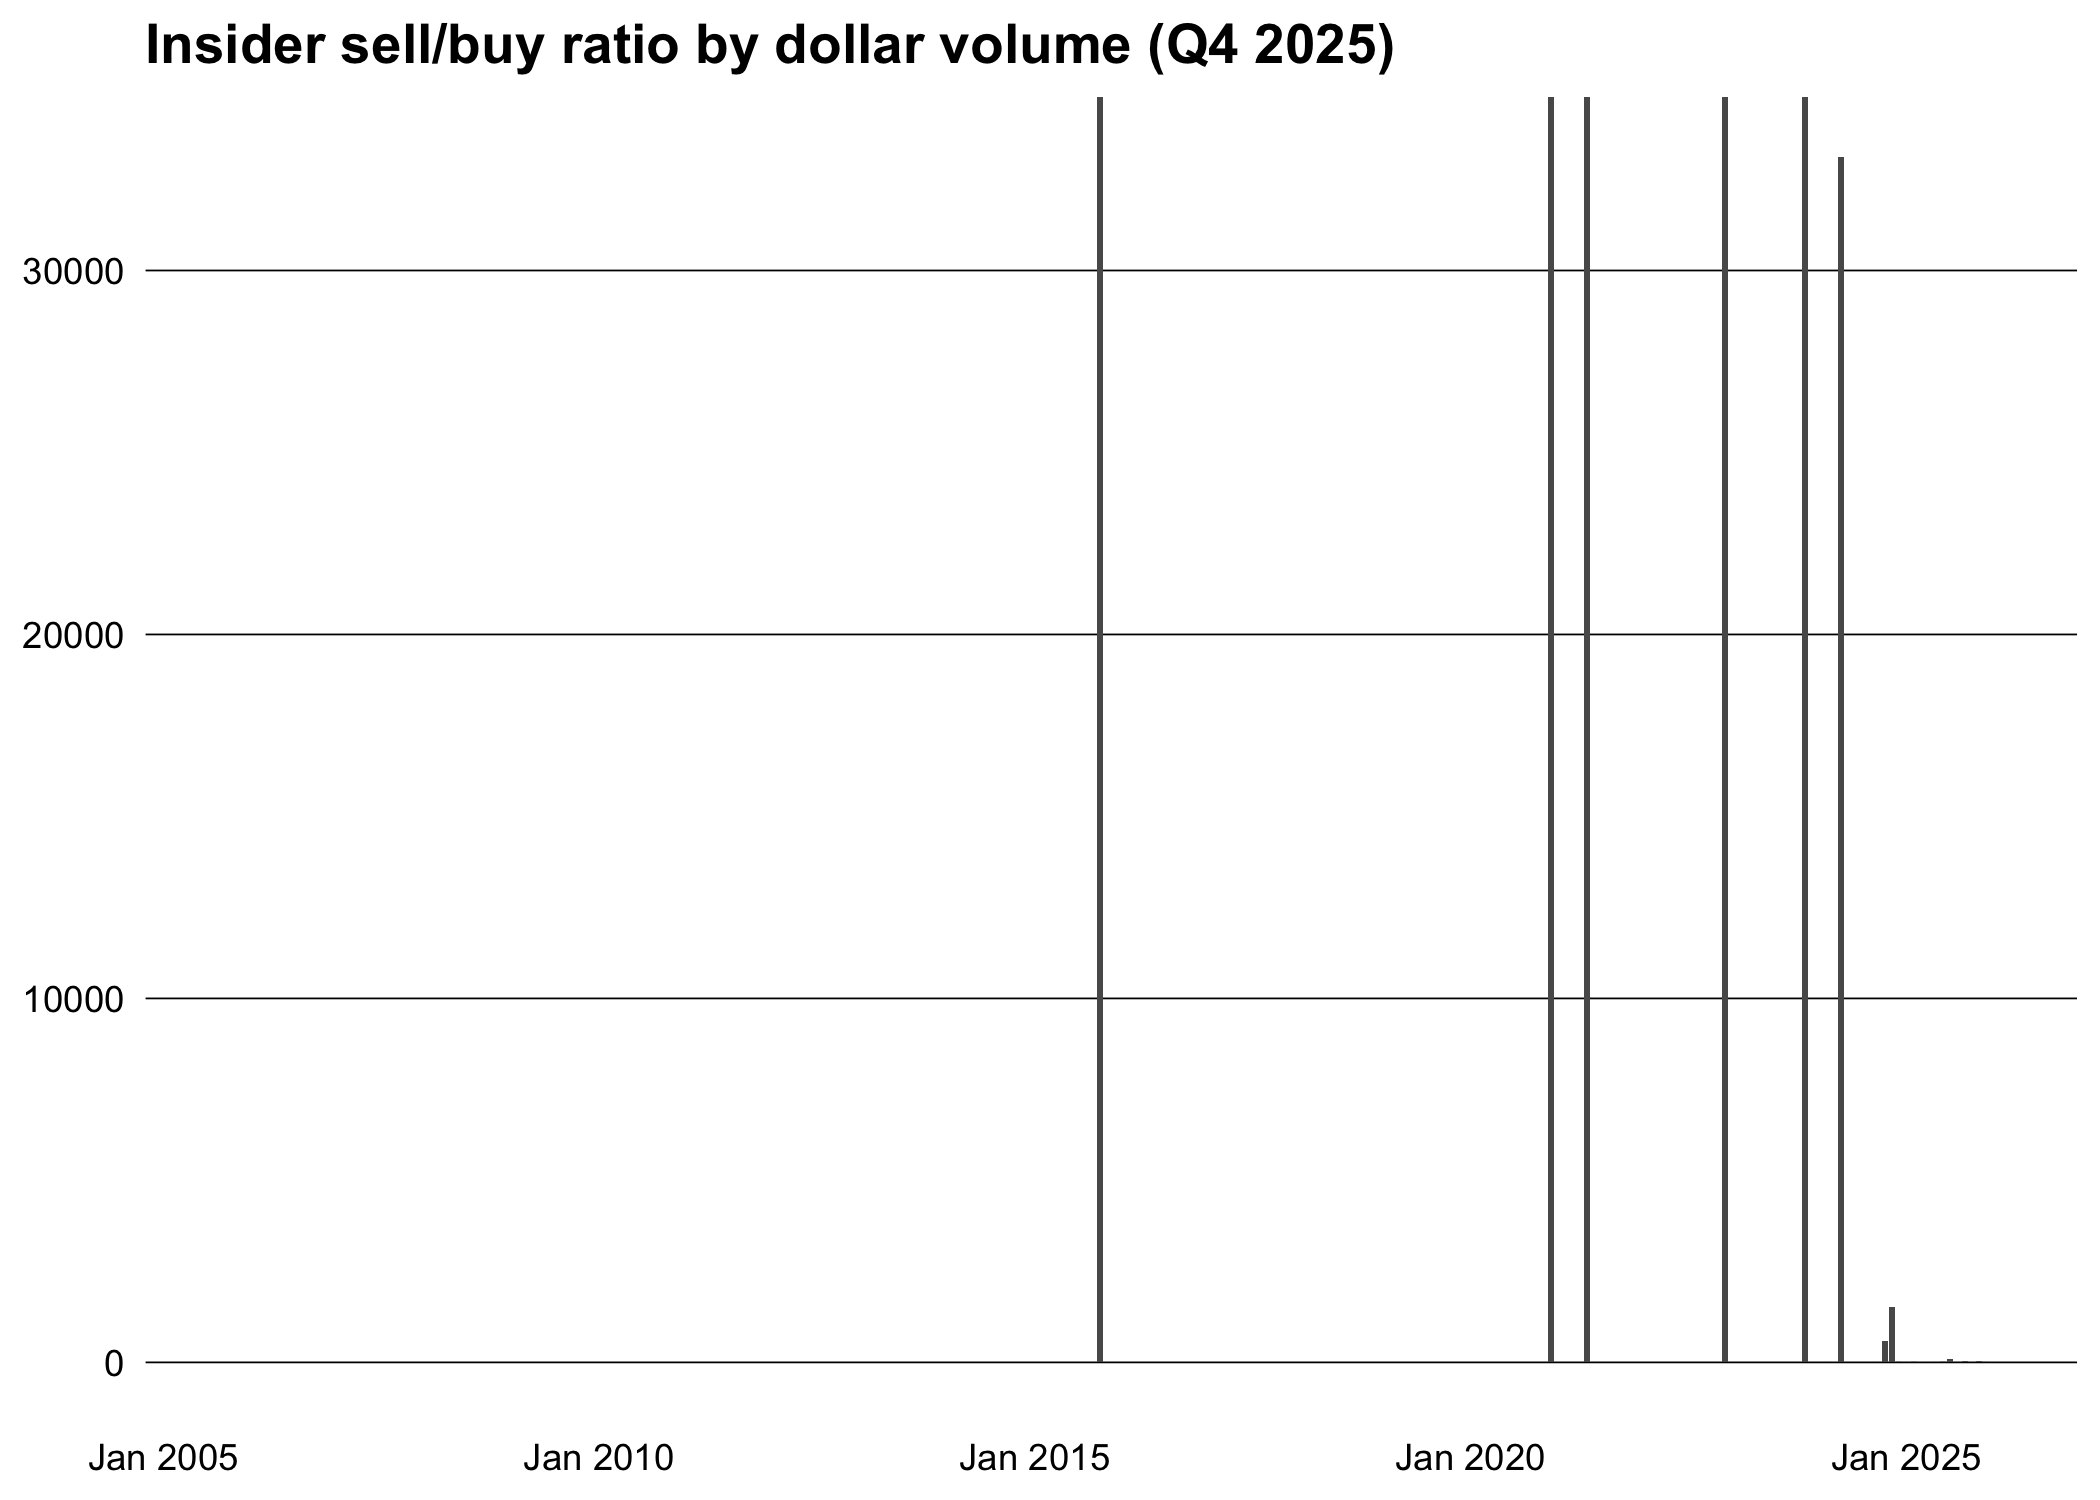
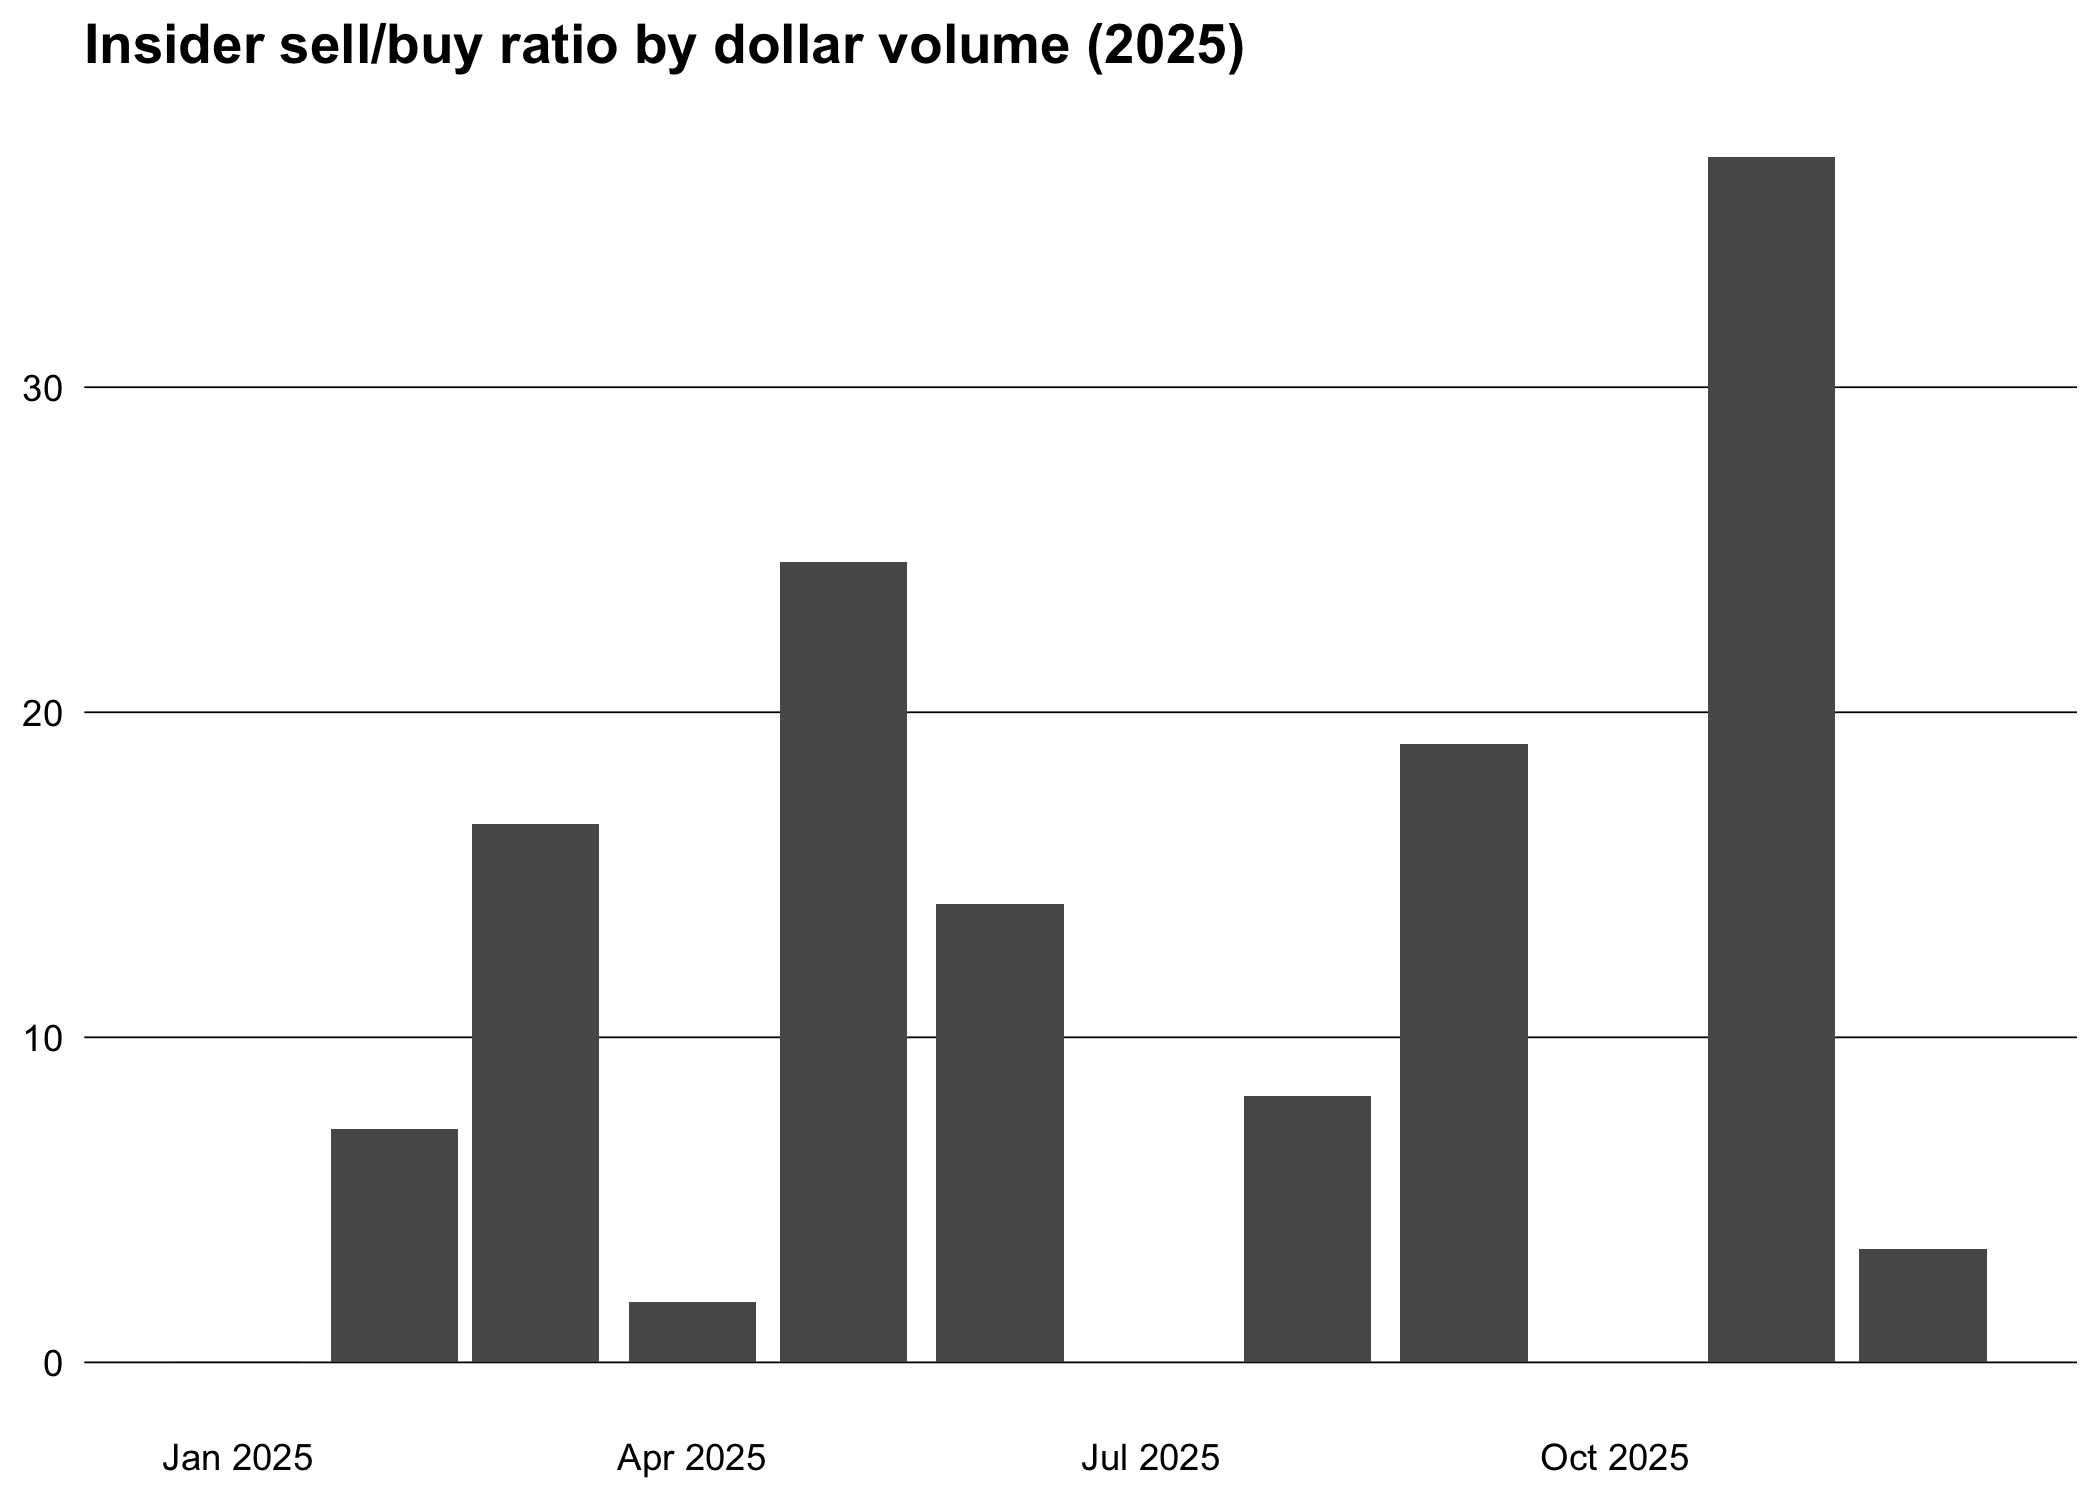
docs: make the readme actually readable

diff --git a/README.md b/README.md
@@ -55,10 +55,10 @@ library(insidertrade)
 
 ### Bulk data
 
-Download and parse all Form 3/4/5 tables for Q4 2025:
+Download and parse all Form 3/4/5 tables for 2025:
 
 ``` r
-trans <- sec_transactions(2025, 4)
+trans <- sec_transactions(2025)
 ```
 
 ### Open-market purchases
@@ -68,7 +68,9 @@ the most informative signal for insider sentiment:
 
 ``` r
 buys <- trans[
-  trans_code == "P" & grepl("Officer|Director", rptowner_relationship)
+  trans_code == "P" &
+    grepl("Officer|Director", rptowner_relationship) &
+    trans_date >= "2025-01-01" & trans_date <= "2025-12-31"
 ]
 buys[, let(value = trans_shares * trans_pricepershare)]
 ```
@@ -84,23 +86,23 @@ top <- buys[,
 ]
 setorder(top, -n_insiders, -total_usd)
 head(top, 10)
-#>     ticker                           company n_insiders   total_usd
-#>     <char>                            <char>      <int>       <num>
-#>  1:    CBC          Central Bancompany, Inc.         17   5104827.0
-#>  2:   MTDR              Matador Resources Co         13   1522756.2
-#>  3:    VAC MARRIOTT VACATIONS WORLDWIDE Corp         12  18231582.0
-#>  4:   HYNE               Hoyne Bancorp, Inc.         10   2428915.6
-#>  5:    OBK              Origin Bancorp, Inc.         10   1023668.6
-#>  6:    SPG     SIMON PROPERTY GROUP INC /DE/         10    394399.9
-#>  7:    CRM                  Salesforce, Inc.          9 200626167.0
-#>  8: PHXE.P           Phoenix Energy One, LLC          9    410000.0
-#>  9:    LAB            STANDARD BIOTOOLS INC.          8 115266000.0
-#> 10:   ZBIO             Zenas BioPharma, Inc.          8  34252652.3
+#>     ticker                           company n_insiders  total_usd
+#>     <char>                            <char>      <int>      <num>
+#>  1:   ACTU        ACTUATE THERAPEUTICS, INC.         24   11999904
+#>  2:   EFSI      EAGLE FINANCIAL SERVICES INC         21     596869
+#>  3:   ALKT           ALKAMI TECHNOLOGY, INC.         19  534703590
+#>  4:    CBC          Central Bancompany, Inc.         17    5104827
+#>  5:   MTDR              Matador Resources Co         17    4647941
+#>  6:   KYMR         Kymera Therapeutics, Inc.         16 1347604988
+#>  7:   AVBH           Avidbank Holdings, Inc.         16    3488755
+#>  8:   WSBC                      WESBANCO INC         15    1556841
+#>  9:    VAC MARRIOTT VACATIONS WORLDWIDE Corp         14  222259811
+#> 10:    HPP   Hudson Pacific Properties, Inc.         14    2564984
 ```
 
 ### Cluster buys
 
-Identify stocks where 3 or more insiders bought within the quarter — a
+Identify stocks where 3 or more insiders bought within the year — a
 strong bullish signal:
 
 ``` r
@@ -115,30 +117,30 @@ cluster <- buys[,
 ][n_insiders >= 3L]
 setorder(cluster, -n_insiders, -total_usd)
 head(cluster, 10)
-#>     ticker                           company n_insiders   total_usd  first_buy
-#>     <char>                            <char>      <int>       <num>     <Date>
-#>  1:    CBC          Central Bancompany, Inc.         17   5104827.0 2025-11-21
-#>  2:   MTDR              Matador Resources Co         13   1522756.2 2025-10-30
-#>  3:    VAC MARRIOTT VACATIONS WORLDWIDE Corp         12  18231582.0 2025-11-13
-#>  4:   HYNE               Hoyne Bancorp, Inc.         10   2428915.6 2025-12-03
-#>  5:    OBK              Origin Bancorp, Inc.         10   1023668.6 2025-10-27
-#>  6:    SPG     SIMON PROPERTY GROUP INC /DE/         10    394399.9 2025-09-30
-#>  7:    CRM                  Salesforce, Inc.          9 200626167.0 2025-12-05
-#>  8: PHXE.P           Phoenix Energy One, LLC          9    410000.0 2025-09-29
-#>  9:    LAB            STANDARD BIOTOOLS INC.          8 115266000.0 2025-11-07
-#> 10:   ZBIO             Zenas BioPharma, Inc.          8  34252652.3 2024-09-13
+#>     ticker                           company n_insiders  total_usd  first_buy
+#>     <char>                            <char>      <int>      <num>     <Date>
+#>  1:   ACTU        ACTUATE THERAPEUTICS, INC.         24   11999904 2025-06-27
+#>  2:   EFSI      EAGLE FINANCIAL SERVICES INC         21     596869 2025-02-07
+#>  3:   ALKT           ALKAMI TECHNOLOGY, INC.         19  534703590 2025-05-15
+#>  4:    CBC          Central Bancompany, Inc.         17    5104827 2025-11-21
+#>  5:   MTDR              Matador Resources Co         17    4647941 2025-02-21
+#>  6:   KYMR         Kymera Therapeutics, Inc.         16 1347604988 2025-06-30
+#>  7:   AVBH           Avidbank Holdings, Inc.         16    3488755 2025-08-07
+#>  8:   WSBC                      WESBANCO INC         15    1556841 2025-05-22
+#>  9:    VAC MARRIOTT VACATIONS WORLDWIDE Corp         14  222259811 2025-03-04
+#> 10:    HPP   Hudson Pacific Properties, Inc.         14    2564984 2025-06-12
 #>       last_buy
 #>         <Date>
-#>  1: 2025-11-21
-#>  2: 2025-11-06
-#>  3: 2025-11-25
-#>  4: 2025-12-05
-#>  5: 2025-11-04
-#>  6: 2025-09-30
-#>  7: 2025-12-17
-#>  8: 2025-09-29
-#>  9: 2025-12-04
-#> 10: 2025-10-09
+#>  1: 2025-06-27
+#>  2: 2025-07-31
+#>  3: 2025-08-13
+#>  4: 2025-11-21
+#>  5: 2025-11-06
+#>  6: 2025-12-11
+#>  7: 2025-08-08
+#>  8: 2025-10-30
+#>  9: 2025-11-25
+#> 10: 2025-06-12
 ```
 
 ### Buy/sell ratio
@@ -149,14 +151,19 @@ indicator. High sell ratios historically correlate with market tops:
 ``` r
 library(ggplot2)
 
-open_market <- trans[trans_code %in% c("P", "S")]
+open_market <- trans[
+  trans_code %in% c("P", "S") & trans_date >= "2025-01-01" & trans_date <= "2025-12-31"
+]
 open_market[, let(month = as.Date(format(trans_date, "%Y-%m-01")))]
-ratio <- open_market[, .(
-  n_buys = sum(trans_code == "P"),
-  n_sells = sum(trans_code == "S"),
-  buy_usd = sum(fifelse(trans_code == "P", trans_shares * trans_pricepershare, 0), na.rm = TRUE),
-  sell_usd = sum(fifelse(trans_code == "S", trans_shares * trans_pricepershare, 0), na.rm = TRUE)
-), by = month]
+ratio <- open_market[,
+  .(
+    n_buys = sum(trans_code == "P"),
+    n_sells = sum(trans_code == "S"),
+    buy_usd = sum(fifelse(trans_code == "P", trans_shares * trans_pricepershare, 0), na.rm = TRUE),
+    sell_usd = sum(fifelse(trans_code == "S", trans_shares * trans_pricepershare, 0), na.rm = TRUE)
+  ),
+  by = month
+]
 ratio[, let(sell_buy_ratio = sell_usd / buy_usd)]
 
 ggplot(ratio, aes(x = month, y = sell_buy_ratio)) +
@@ -171,7 +178,7 @@ ggplot(ratio, aes(x = month, y = sell_buy_ratio)) +
     axis.text = element_text(color = "black"),
     axis.title = element_blank()
   ) +
-  labs(title = "Insider sell/buy ratio by dollar volume (Q4 2025)")
+  labs(title = "Insider sell/buy ratio by dollar volume (2025)")
 ```
 
 <img src="man/figures/README-buy-sell-ratio-1.png" alt="" width="100%" />
@@ -193,7 +200,7 @@ ggplot(daily, aes(x = trans_date, y = n_purchases)) +
     axis.text = element_text(color = "black"),
     axis.title = element_blank()
   ) +
-  labs(title = "Daily insider purchases by officers and directors (Q4 2025)")
+  labs(title = "Daily insider purchases by officers and directors (2025)")
 ```
 
 <img src="man/figures/README-daily-1.png" alt="" width="100%" />
